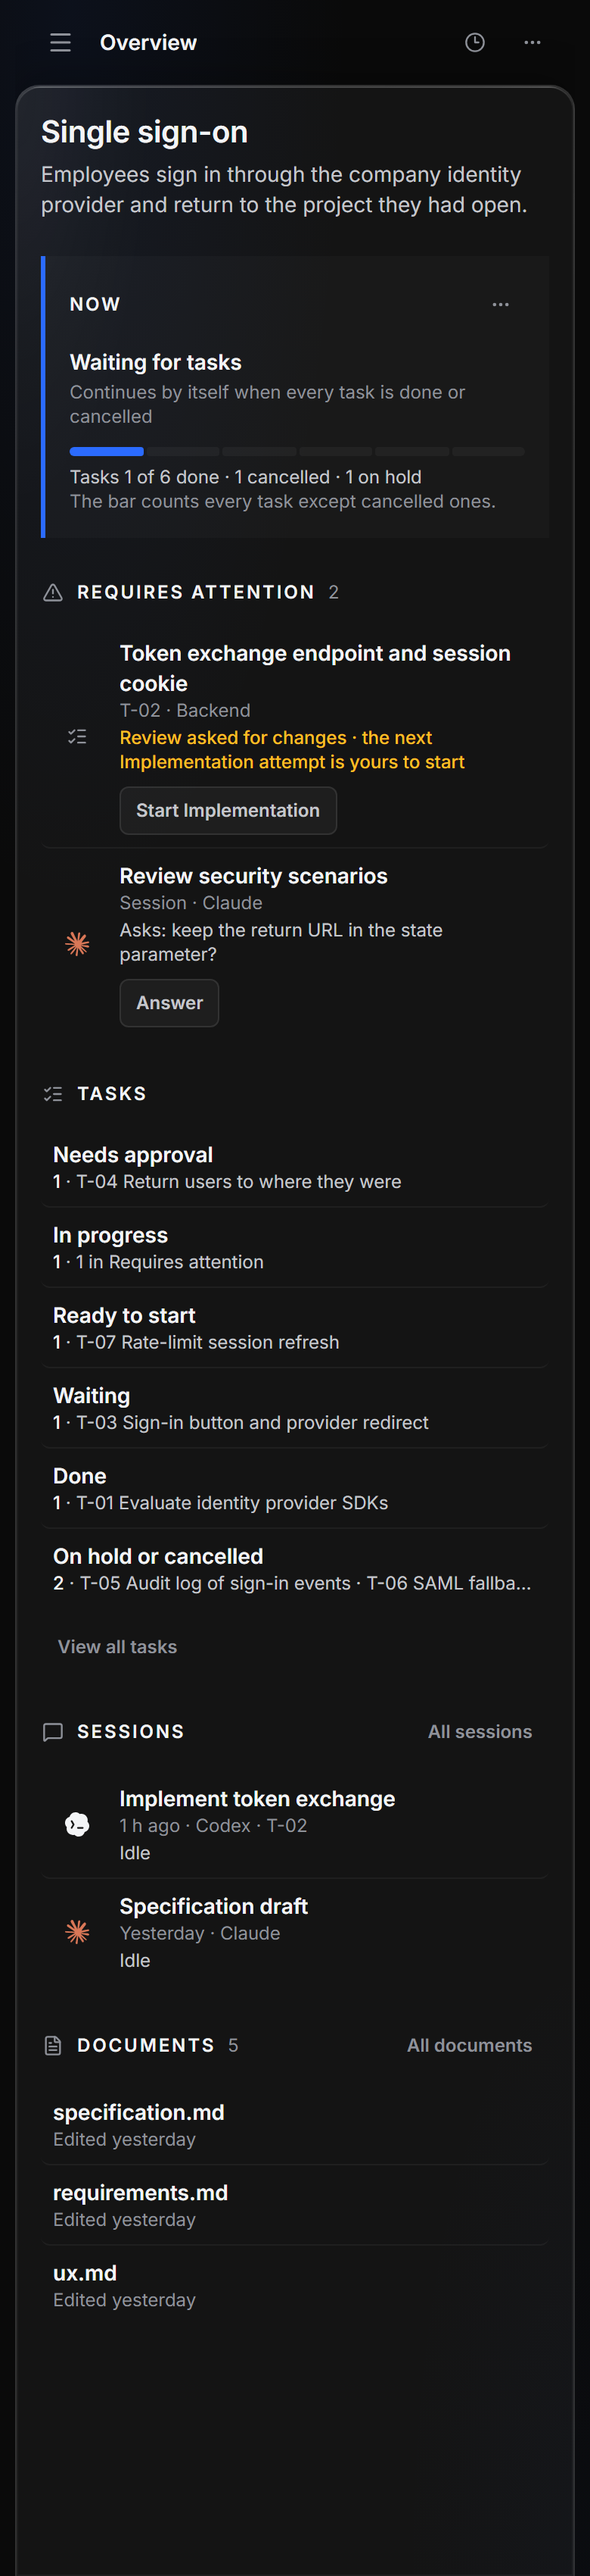
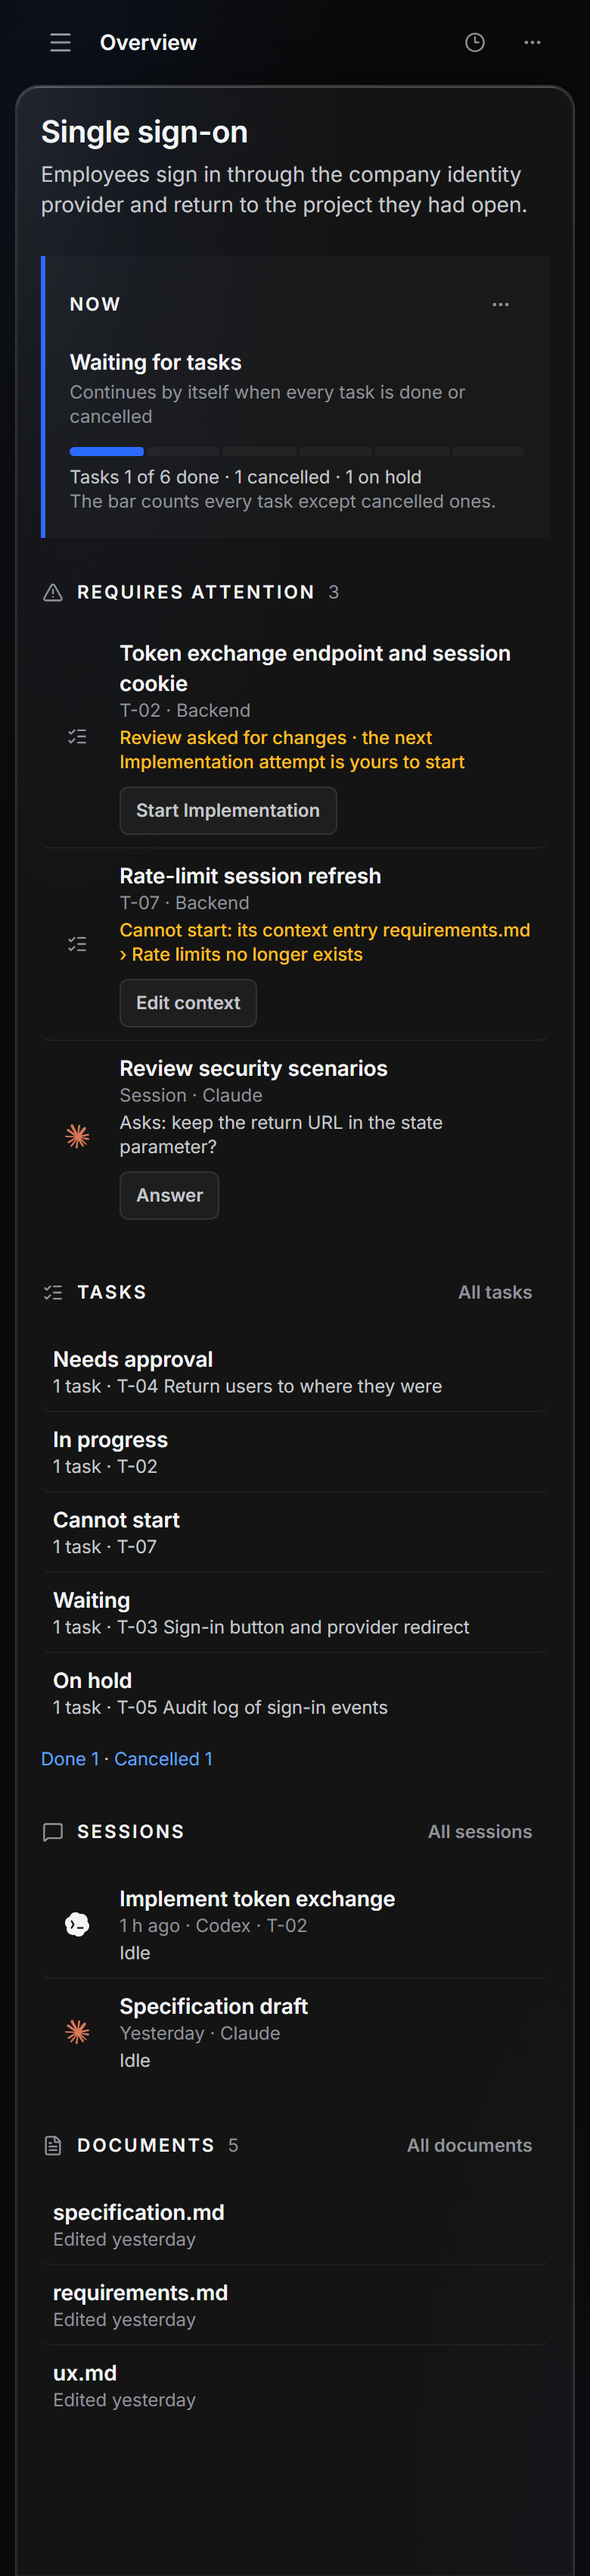
chore: Overview final refinements screenshots (not for merge)

Changed region(s): [[0.0615, 0.3118, 0.7385, 0.9353], [0.1231, 0.3429, 0.1538, 0.3741]]

diff --git a/shots/overview-grouping-attention.md b/shots/overview-grouping-attention.md
@@ -71,7 +71,24 @@ a break with the "groups supplied by the backend" rule.
 7. Now explanation data: `tasks-stuck` Task ids with each Task's blocking fact.
 8. Per-Specification Sessions read (this Specification's Sessions; recommended first).
 
-## 6. Still open (small)
+## 6. Review refinements (2026-11-14)
 
-- Target of **Review tasks**: the Tasks page filtered to the named Tasks, or scrolled to the first.
-- Whether Done/Cancelled compact links open the Tasks page expanded at that group (assumed yes).
+- **P1 Ready to start contradicted the facts** (T-07 was there while its context blocker prevents
+  starting). Config-only fix: "Ready to start" requires `startBlocked: false`; a new **Cannot
+  start** group takes approved, not-started Tasks with a start blocker other than dependencies.
+  Chosen over renaming to "Not started" because the label then matches what the person can do.
+- **P2 "named in Requires attention" was false** in the stuck state. Group rows now read
+  "1 task · T-04": Tasks referred to elsewhere appear by id only, others with id and title.
+- **P2 stuck state repeated the diagnosis.** Now keeps the explanation and Task links; the attention
+  item says the intervention: "Resolve 2 blocking tasks · Approve, resume or cancel them so the
+  specification can finish", action **Review tasks**.
+- **Review tasks (decided):** `/specs/:specId/tasks?blocking=specification`: one validated search
+  value (routing contract: router-owned, validated search, absence = default), resolved against the
+  current `tasks-stuck` ids, never an id list in the URL; normal grouping kept; a visible filter bar
+  "Blocking specification · 2 tasks" with a clear button; section count "2 of 7 shown". Push on
+  open, replace on clear.
+- **Neutral facts stand alone:** the Task facts and attention stay in the Task read model for CLI,
+  MCP and other consumers; groups are only an optional presentation.
+
+Still open (small): whether Done/Cancelled compact links open the Tasks page expanded at that group
+(assumed yes).
